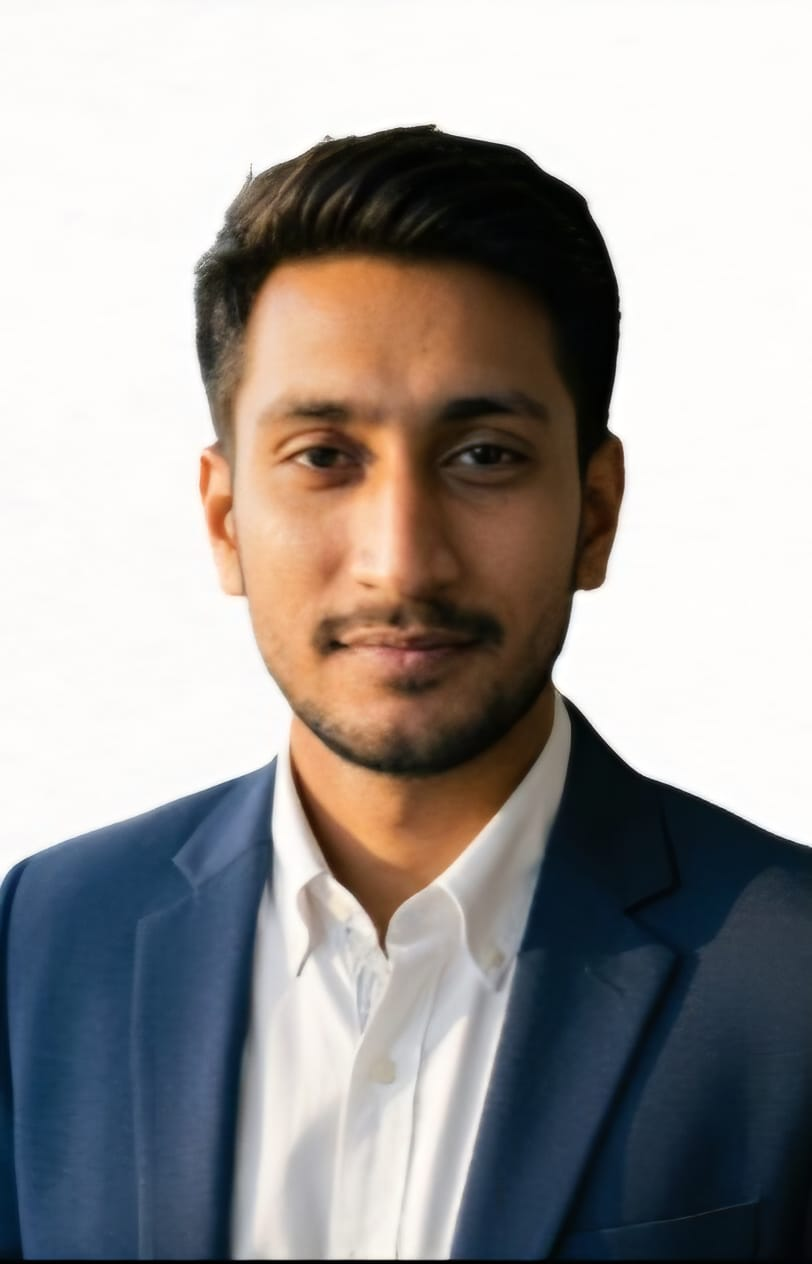
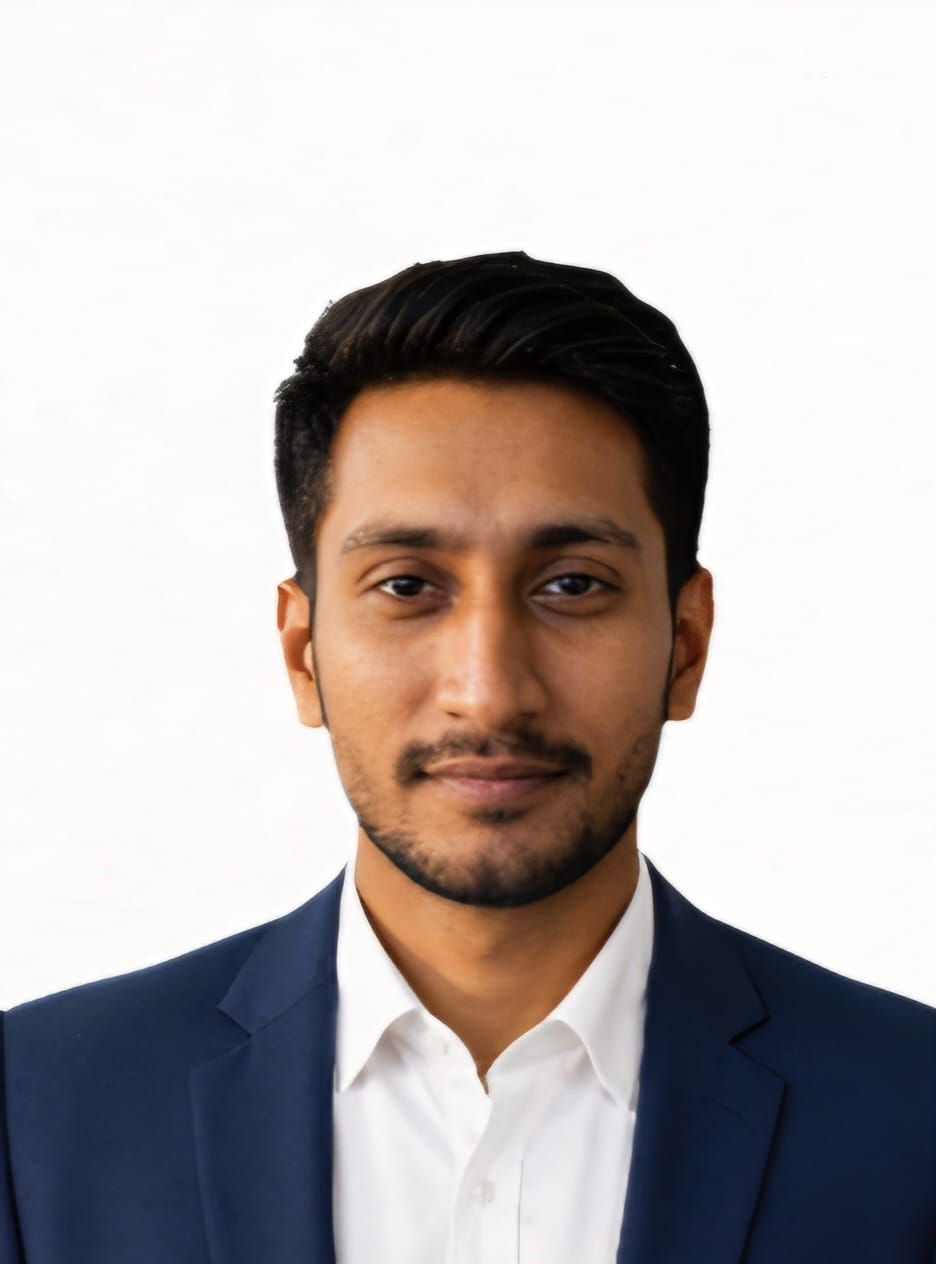
added sections, improved home page and replaced an image.

diff --git a/src/components/CostComparison.jsx b/src/components/CostComparison.jsx
@@ -1,0 +1,64 @@
+import React from 'react';
+import { CheckCircle2, XCircle } from 'lucide-react';
+
+function CostComparison() {
+  return (
+    <section className="py-16 bg-blue-50">
+      <div className="max-w-5xl mx-auto px-4 sm:px-6 lg:px-8">
+        <div className="text-center mb-12">
+          <h2 className="text-3xl font-bold text-gray-900">Why Study in Russia?</h2>
+          <p className="mt-4 text-gray-600">A transparent look at how Russian medical universities compare to private Indian colleges.</p>
+        </div>
+
+        <div className="overflow-hidden rounded-xl border border-gray-200 shadow-sm">
+          {/* CHANGED: text-left is now text-center */}
+          <table className="w-full text-center text-sm md:text-base">
+            <thead className="bg-blue-50">
+              <tr>
+                <th className="p-4 font-bold text-gray-900 border-b border-gray-200">Feature</th>
+                <th className="p-4 font-bold text-blue-700 border-b border-gray-200 border-l">Top Russian Universities</th>
+                <th className="p-4 font-bold text-gray-600 border-b border-gray-200 border-l">Private Indian Colleges</th>
+              </tr>
+            </thead>
+            <tbody className="divide-y divide-gray-200">
+              <tr className="bg-white">
+                <td className="p-4 font-medium text-gray-900">Average Tuition Fee</td>
+                <td className="p-4 text-gray-700 border-l">₹15 Lakhs - ₹25 Lakhs (Total 6 Years)</td>
+                <td className="p-4 text-gray-700 border-l">₹60 Lakhs - ₹1 Crore+ (Total 5.5 Years)</td>
+              </tr>
+              
+              <tr className="bg-gray-50">
+                <td className="p-4 font-medium text-gray-900">Donation / Capitation Fee</td>
+                <td className="p-4 border-l">
+                  {/* CHANGED: Added justify-center so the icon and text are centered together */}
+                  <div className="text-green-600 font-semibold flex items-center justify-center gap-2">
+                    <CheckCircle2 size={18} /> Zero Donation
+                  </div>
+                </td>
+                <td className="p-4 border-l">
+                  {/* CHANGED: Added justify-center */}
+                  <div className="text-red-500 font-semibold flex items-center justify-center gap-2">
+                    <XCircle size={18} /> Very High
+                  </div>
+                </td>
+              </tr>
+              
+              <tr className="bg-white">
+                <td className="p-4 font-medium text-gray-900">Entrance Exam Required</td>
+                <td className="p-4 text-gray-700 border-l">None (Only NEET qualification needed)</td>
+                <td className="p-4 text-gray-700 border-l">High NEET cutoff required</td>
+              </tr>
+              <tr className="bg-gray-50">
+                <td className="p-4 font-medium text-gray-900">World Recognition</td>
+                <td className="p-4 text-gray-700 border-l">WHO, NMC (India), ECFMG (USA) Approved</td>
+                <td className="p-4 text-gray-700 border-l">NMC Approved</td>
+              </tr>
+            </tbody>
+          </table>
+        </div>
+      </div>
+    </section>
+  );
+}
+
+export default CostComparison;

diff --git a/src/components/WhyChooseUs.jsx b/src/components/WhyChooseUs.jsx
@@ -1,0 +1,46 @@
+import React from 'react';
+import { ShieldCheck, GraduationCap, PlaneTakeoff } from 'lucide-react';
+
+function WhyChooseUs() {
+  return (
+    <section className="py-16 bg-blue-50">
+      <div className="max-w-7xl mx-auto px-4 sm:px-6 lg:px-8">
+        <div className="text-center mb-12">
+          <h2 className="text-3xl font-bold text-gray-900">Why Choose Dream Doctor Global?</h2>
+          <p className="mt-4 text-lg text-gray-600">We don't just get you admission; we stand by you until you graduate.</p>
+        </div>
+
+        <div className="grid grid-cols-1 md:grid-cols-3 gap-8">
+          {/* Card 1 */}
+          <div className="bg-white p-6 rounded-lg shadow-md text-center hover:shadow-lg transition-shadow">
+            <div className="w-16 h-16 bg-blue-100 text-blue-600 rounded-full flex items-center justify-center mx-auto mb-4">
+              <ShieldCheck size={32} strokeWidth={1.5} />
+            </div>
+            <h3 className="text-xl font-semibold mb-2">100% Transparency</h3>
+            <p className="text-gray-600 leading-relaxed">No hidden charges, no fake promises. We provide clear fee structures directly from the universities.</p>
+          </div>
+
+          {/* Card 2 */}
+          <div className="bg-white p-6 rounded-lg shadow-md text-center hover:shadow-lg transition-shadow">
+            <div className="w-16 h-16 bg-blue-100 text-blue-600 rounded-full flex items-center justify-center mx-auto mb-4">
+              <GraduationCap size={32} strokeWidth={1.5} />
+            </div>
+            <h3 className="text-xl font-semibold mb-2">Direct Admissions</h3>
+            <p className="text-gray-600 leading-relaxed">We are official representatives of top NMC & WHO recognized government medical universities in Russia.</p>
+          </div>
+
+          {/* Card 3 */}
+          <div className="bg-white p-6 rounded-lg shadow-md text-center hover:shadow-lg transition-shadow">
+            <div className="w-16 h-16 bg-blue-100 text-blue-600 rounded-full flex items-center justify-center mx-auto mb-4">
+              <PlaneTakeoff size={32} strokeWidth={1.5} />
+            </div>
+            <h3 className="text-xl font-semibold mb-2">Post-Arrival Support</h3>
+            <p className="text-gray-600 leading-relaxed">From visa assistance and flight booking to hostel setup and local registration, we handle it all.</p>
+          </div>
+        </div>
+      </div>
+    </section>
+  );
+}
+
+export default WhyChooseUs;

diff --git a/src/components/Eligibility.jsx b/src/components/Eligibility.jsx
@@ -1,0 +1,40 @@
+import React from 'react';
+import { ClipboardList, GraduationCap, Calendar } from 'lucide-react';
+
+function Eligibility() {
+  return (
+    <section className="py-16 bg-white">
+      <div className="max-w-7xl mx-auto px-4 sm:px-6 lg:px-8">
+        <h2 className="text-3xl font-bold text-center text-gray-900 mb-12">Basic Eligibility Criteria</h2>
+        
+        <div className="grid grid-cols-1 md:grid-cols-3 gap-6">
+          <div className="bg-white p-6 rounded-xl shadow-sm border border-gray-100 flex flex-col items-center text-center">
+            <div className="w-14 h-14 bg-blue-100 text-blue-600 rounded-full flex items-center justify-center mb-4">
+              <Calendar size={28} />
+            </div>
+            <h3 className="text-xl font-bold text-gray-900 mb-2">Age Requirement</h3>
+            <p className="text-gray-600">The student must be at least 17 years old by December 31st of the admission year.</p>
+          </div>
+
+          <div className="bg-white p-6 rounded-xl shadow-sm border border-gray-100 flex flex-col items-center text-center">
+            <div className="w-14 h-14 bg-blue-100 text-blue-600 rounded-full flex items-center justify-center mb-4">
+              <GraduationCap size={28} />
+            </div>
+            <h3 className="text-xl font-bold text-gray-900 mb-2">Academic Score</h3>
+            <p className="text-gray-600">Must have passed 10+2 with Physics, Chemistry, and Biology with a minimum of 50% aggregate.</p>
+          </div>
+
+          <div className="bg-white p-6 rounded-xl shadow-sm border border-gray-100 flex flex-col items-center text-center">
+            <div className="w-14 h-14 bg-blue-100 text-blue-600 rounded-full flex items-center justify-center mb-4">
+              <ClipboardList size={28} />
+            </div>
+            <h3 className="text-xl font-bold text-gray-900 mb-2">NEET Qualification</h3>
+            <p className="text-gray-600">The student must have a valid qualifying NEET score. (Valid for 3 years for abroad admissions).</p>
+          </div>
+        </div>
+      </div>
+    </section>
+  );
+}
+
+export default Eligibility;

diff --git a/src/components/AdmissionProcess.jsx b/src/components/AdmissionProcess.jsx
@@ -1,0 +1,32 @@
+import React from 'react';
+
+function AdmissionProcess() {
+  const steps = [
+    { num: "01", title: "Free Counseling", desc: "Speak with our experts to choose the best university based on your NEET score and budget." },
+    { num: "02", title: "Application & Offer", desc: "Submit your documents. We secure your guaranteed admission letter from the university." },
+    { num: "03", title: "Visa Processing", desc: "We handle the complete documentation and processing for your Russian student visa." },
+    { num: "04", title: "Travel & Setup", desc: "Fly with our group. We assist with hostel allocation, medical checkups, and university registration." }
+  ];
+
+  return (
+    <section className="py-16 bg-white">
+      <div className="max-w-7xl mx-auto px-4 sm:px-6 lg:px-8">
+        <h2 className="text-3xl font-bold text-center text-gray-900 mb-12">Your Journey to Becoming a Doctor</h2>
+        
+        <div className="grid grid-cols-1 md:grid-cols-4 gap-6">
+          {steps.map((step, index) => (
+            <div key={index} className="relative p-6 border border-gray-200 rounded-xl hover:border-blue-500 transition-colors">
+              <span className="text-5xl font-extrabold text-gray-100 absolute top-4 right-4 z-0">{step.num}</span>
+              <div className="relative z-10">
+                <h3 className="text-xl font-bold text-gray-900 mt-8 mb-3">{step.title}</h3>
+                <p className="text-gray-600 text-sm leading-relaxed">{step.desc}</p>
+              </div>
+            </div>
+          ))}
+        </div>
+      </div>
+    </section>
+  );
+}
+
+export default AdmissionProcess;

diff --git a/src/components/Universities.jsx b/src/components/Universities.jsx
@@ -79,8 +79,8 @@ function Universities() {
 
   if (isLoading) {
     return (
-      <section className="py-16 bg-gray-50 flex justify-center items-center h-96">
-        <h2 className="text-2xl font-bold text-gray-500 animate-pulse">Loading Universities...</h2>
+      <section className="py-16 bg-blue-50 flex justify-center items-center h-96">
+        <h2 className="text-2xl font-bold text-blue-600 animate-pulse">Loading Universities...</h2>
       </section>
     );
   }
@@ -89,7 +89,7 @@ function Universities() {
   if (universities.length === 0) return null;
 
   return (
-    <section id="universities" className="py-16 bg-gray-50 overflow-hidden">
+    <section id="universities" className="py-16 bg-blue-50 overflow-hidden">
       <div className="max-w-7xl mx-auto px-4 md:px-10">
         <div className="mb-10 text-center">
           <h2 className="text-3xl md:text-4xl font-bold text-[#001529] mb-4">Top Russian Medical Universities</h2>

diff --git a/src/pages/Home.jsx b/src/pages/Home.jsx
@@ -12,6 +12,10 @@ import FAQ from '../components/FAQ';
 import AboutDDG from '../components/AboutDDG';
 import OurTeam from '../components/OurTeam';
 import SEO from '../components/SEO';
+import WhyChooseUs from '../components/WhyChooseUs';
+import AdmissionProcess from '../components/AdmissionProcess';
+import CostComparison from '../components/CostComparison';
+import Eligibility from '../components/Eligibility';
 
 function Home() {
   return (
@@ -27,6 +31,10 @@ function Home() {
       <RightTab />
       <Universities />
       <AboutDDG />
+      <WhyChooseUs />
+      <AdmissionProcess />
+      <CostComparison />
+      <Eligibility />
       <FAQ />
       <OurTeam />
       <EnquireNow />

diff --git a/src/components/EnquireNow.jsx b/src/components/EnquireNow.jsx
@@ -51,7 +51,7 @@ function EnquireNow() {
   };
 
   return (
-    <section id="contact" className="bg-gray-100 py-16 px-4">
+    <section id="contact" className="bg-blue-50 py-16 px-4">
       <div className="max-w-xl mx-auto bg-white p-8 rounded-2xl shadow-xl">
         <h3 className="text-2xl font-bold text-center mb-6">Enquire Now</h3>
         

diff --git a/src/components/FAQ.jsx b/src/components/FAQ.jsx
@@ -34,7 +34,7 @@ function FAQ() {
   };
 
   return (
-    <section id="faq" className="bg-gray-50 py-16 px-4 md:px-8">
+    <section id="faq" className="bg-blue-50 py-16 px-4 md:px-8">
       <div className="max-w-4xl mx-auto flex flex-col items-center">
         
         {/* Section Headers */}
